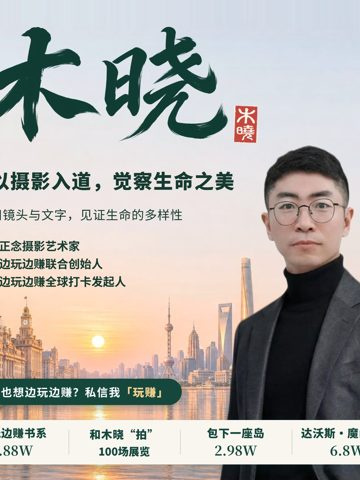
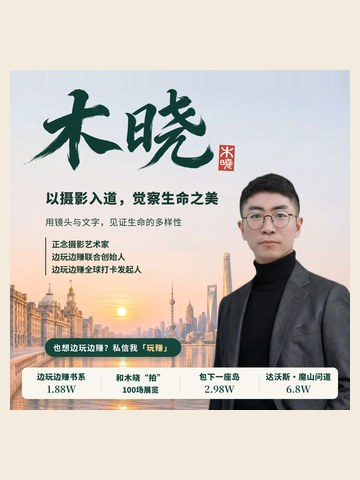
木晓主页：拿掉画家 Kelvin 的写生照，换成木晓自己拍的两张（郑州「我是河南人」、普洱蓝调时刻）；背景墙在「带走一张我」里和人生卡并排、不再出框，七件套小图里也完整显示
Claude-Session: https://claude.ai/code/session_01BfepyGmYcQMv54keWksx8P

diff --git a/v2/muxiao/index.html b/v2/muxiao/index.html
@@ -293,7 +293,9 @@ h2{font-family:var(--serif);font-weight:700;font-size:clamp(26px,4.4vw,38px);lin
 /* 带走一张我 */
 .take{padding:96px 0;background:var(--paper)}
 .take .intro{color:var(--ink2);margin-top:10px}
-.cards{margin-top:40px;display:grid;grid-template-columns:.62fr 1.38fr;gap:44px;align-items:start}
+.cards{margin-top:44px;display:flex;justify-content:center;align-items:flex-start;gap:56px}
+.cards a:nth-child(1) img{height:min(560px,62vw);width:auto}
+.cards a:nth-child(2) img{height:min(480px,52vw);width:auto;margin-top:40px}
 .cards a{display:block;text-decoration:none;transition:transform .6s cubic-bezier(.2,.7,.2,1)}
 .cards img{border-radius:8px;box-shadow:0 0 0 6px #fff,0 26px 50px -20px rgba(42,38,32,.5)}
 .cards a:nth-child(1){transform:rotate(-4deg)}
@@ -302,7 +304,7 @@ h2{font-family:var(--serif);font-weight:700;font-size:clamp(26px,4.4vw,38px);lin
 .cards span{display:block;margin-top:16px;font-size:13px;color:var(--ink2);text-align:center}
 .share{margin-top:34px;background:none;border:1.5px solid var(--ink);color:var(--ink);font:700 14px var(--sans);padding:11px 18px;border-radius:999px;cursor:pointer}
 .share:hover{background:var(--ink);color:#fff}
-@media(max-width:820px){.cards{grid-template-columns:1fr;gap:40px}.cards a:nth-child(1){width:72%;margin:0 auto}}
+@media(max-width:820px){.cards{flex-direction:column;align-items:center;gap:40px}.cards a:nth-child(1) img{height:auto;width:min(70vw,280px)}.cards a:nth-child(2) img{height:auto;width:calc(100vw - 72px);margin-top:0}}
 
 /* 加微信 */
 .meet{padding:100px 0 120px;background:var(--dark);color:var(--sand);text-align:center}
@@ -387,7 +389,7 @@ footer a{color:#D9CFBC;text-decoration:none}
     <ol>
       <li><a href="#hello"><span class="th"><img src="kit-1.jpg?v=20261119" alt="" loading="lazy"><em>①</em></span><b class="k">人生卡</b></a></li>
       <li><a href="#book"><span class="th"><img src="kit-2.jpg?v=20261119" alt="" loading="lazy"><em>②</em></span><b class="k">电子书</b></a></li>
-      <li><a href="#take"><span class="th"><img src="kit-4.jpg?v=20261119" alt="" loading="lazy"><em>⑧</em></span><b class="k">朋友圈封面</b></a></li>
+      <li><a href="#take"><span class="th"><img src="kit-4.jpg?v=20261119c" alt="" loading="lazy"><em>⑧</em></span><b class="k">朋友圈封面</b></a></li>
       <li><a href="#film"><span class="th"><img src="kit-16.jpg?v=20261119" alt="" loading="lazy"><em>▶</em></span><b class="k">动漫短片</b></a></li>
       <li><a href="#top"><span class="th"><img src="hero.jpg?v=20261119" alt="" loading="lazy" style="object-position:62% 40%"><em>⑱</em></span><b class="k">个人主页</b></a></li>
     </ol>
@@ -479,7 +481,7 @@ footer a{color:#D9CFBC;text-decoration:none}
       <figure><img src="p-zootopia.jpg?v=20261119b" alt="徐家汇地铁站，大屏幕上的动物和行色匆匆的人群" loading="lazy"><figcaption><b>书 4 · 徐家汇地铁站</b>两个世界，共享同一条路</figcaption></figure>
       <figure><img src="p-clock.jpg?v=20261119b" alt="红色的框和远处的塔顶" loading="lazy"><figcaption><b>书 4</b>红框里的塔尖</figcaption></figure>
       <figure><img src="w-yellow.jpg?v=20261119b" alt="黄墙黄字" loading="lazy"><figcaption><b>木晓摄</b>黄墙，黄字</figcaption></figure>
-      <figure><img src="w-kevin.jpg" alt="Kevin 在写生" loading="lazy"><figcaption><b>木晓摄</b>Kevin 写生</figcaption></figure>
+      <figure><img src="w-puer.jpg?v=20261119c" alt="普洱的蓝调时刻，城市剪影和晚霞" loading="lazy"><figcaption><b>木晓摄</b>普洱，蓝调时刻</figcaption></figure>
       <figure><img src="p-street.jpg" alt="上海街头的电动车与斑马线" loading="lazy"><figcaption><b>书 3</b>街口</figcaption></figure>
       <figure><img src="p-reed.jpg?v=20261119b" alt="木晓站在芦苇丛里" loading="lazy"><figcaption><b>书 2</b>镜头前的我</figcaption></figure>
       <figure><img src="p-blossom.jpg?v=20261119b" alt="木晓站在樱花树下" loading="lazy"><figcaption><b>书 3</b>镜头前的我</figcaption></figure>
@@ -517,7 +519,7 @@ footer a{color:#D9CFBC;text-decoration:none}
     <h2>以前是一个人，一个相机。<br>这一次，是一群人。</h2>
     <p class="intro">这几件事，现在就可以一起来。</p>
     <div class="nows">
-      <article class="rv"><img src="w-kevin.jpg?v=20261119b" alt="木晓拍的 Kevin 写生" loading="lazy"><div class="tx"><span class="k">我发起的 · 图为木晓摄</span><h3>和木晓拍 100 场展览</h3><p>不再一个人背着相机，而是带着大家，用摄影的方式在展览里发现美、记录美、传递美。第二场去红砖美术馆，碰上周一闭馆，我们就在门口开了一堂课，从横平竖直讲起。</p><q>红砖那扇门没开，我们就自己造了一扇。</q></div></article>
+      <article class="rv"><img src="w-henan.jpg?v=20261119c" alt="夜色里的墙上写着「我是河南人」，墙下一个撑伞的剪影" loading="lazy"><div class="tx"><span class="k">我发起的 · 图为木晓摄于郑州</span><h3>和木晓拍 100 场展览</h3><p>不再一个人背着相机，而是带着大家，用摄影的方式在展览里发现美、记录美、传递美。第二场去红砖美术馆，碰上周一闭馆，我们就在门口开了一堂课，从横平竖直讲起。</p><q>红砖那扇门没开，我们就自己造了一扇。</q></div></article>
       <article class="rv"><img src="p-redbrick.jpg?v=20261119b" alt="几位作者拿着《边玩边赚》站在红砖美术馆门口" loading="lazy"><div class="tx"><span class="k">我发起的</span><h3>边玩边赚全球打卡</h3><p>分布在全球各地的作者，在不同城市、不同风景前，和同一本书合影——书里装着每个人的故事，书外是各自的天空。每天一篇，在公众号「AI边玩边赚」。</p><a class="more" href="#meet">在公众号里看每天的打卡</a></div></article>
       <article class="rv"><div class="tx"><span class="k">2026.11.15 · 空中会客厅 · 第 2 期</span><h3>换一双眼睛看世界</h3><p>千百合 × 木晓。她用 AI 画人物卡，我用练了多年的眼睛看——两双眼睛，看同一个人，会看出什么不一样。</p></div></article>
       <article class="rv"><div class="tx"><span class="k">2027 · 达沃斯 · 与世界围炉</span><h3>随行摄影</h3><p>这一周，我负责把你在达沃斯的样子留下来。</p><a class="more" href="https://www.playandprosper.com/davos/">看达沃斯这一程</a></div></article>
